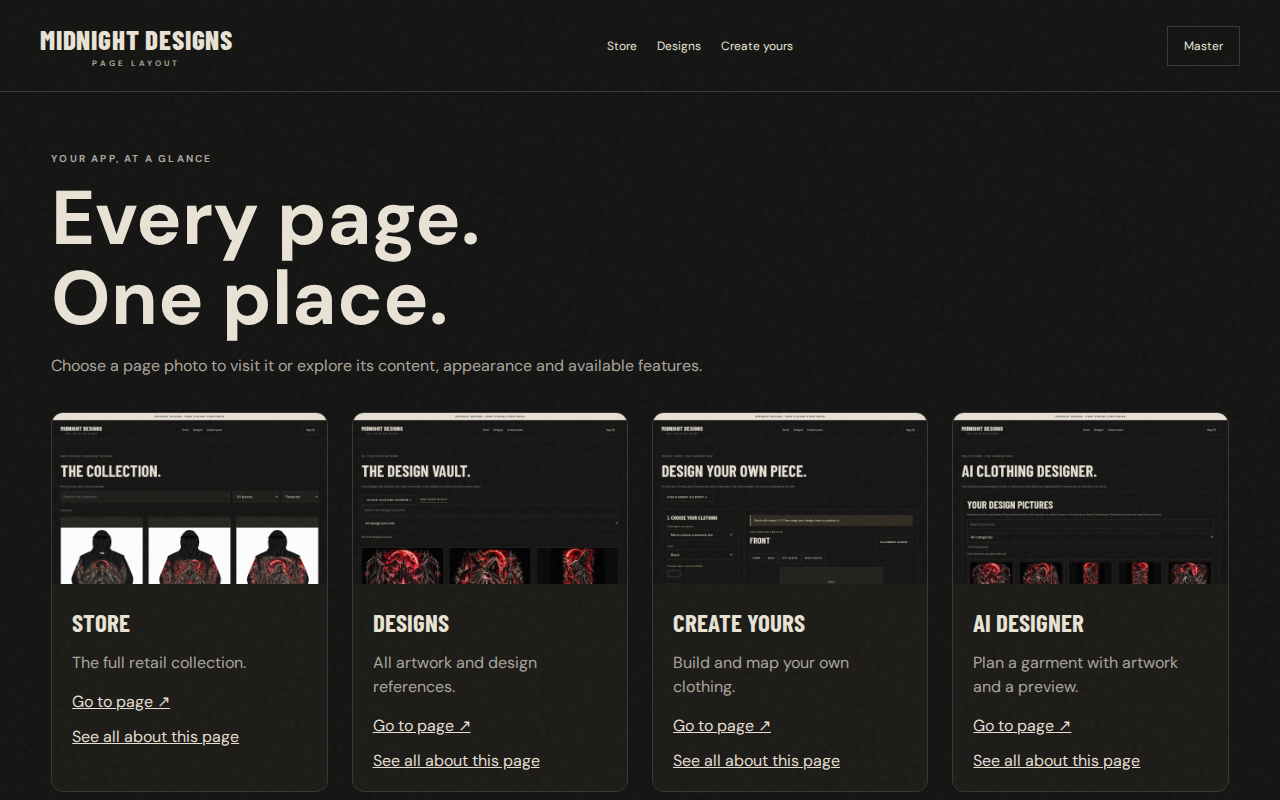
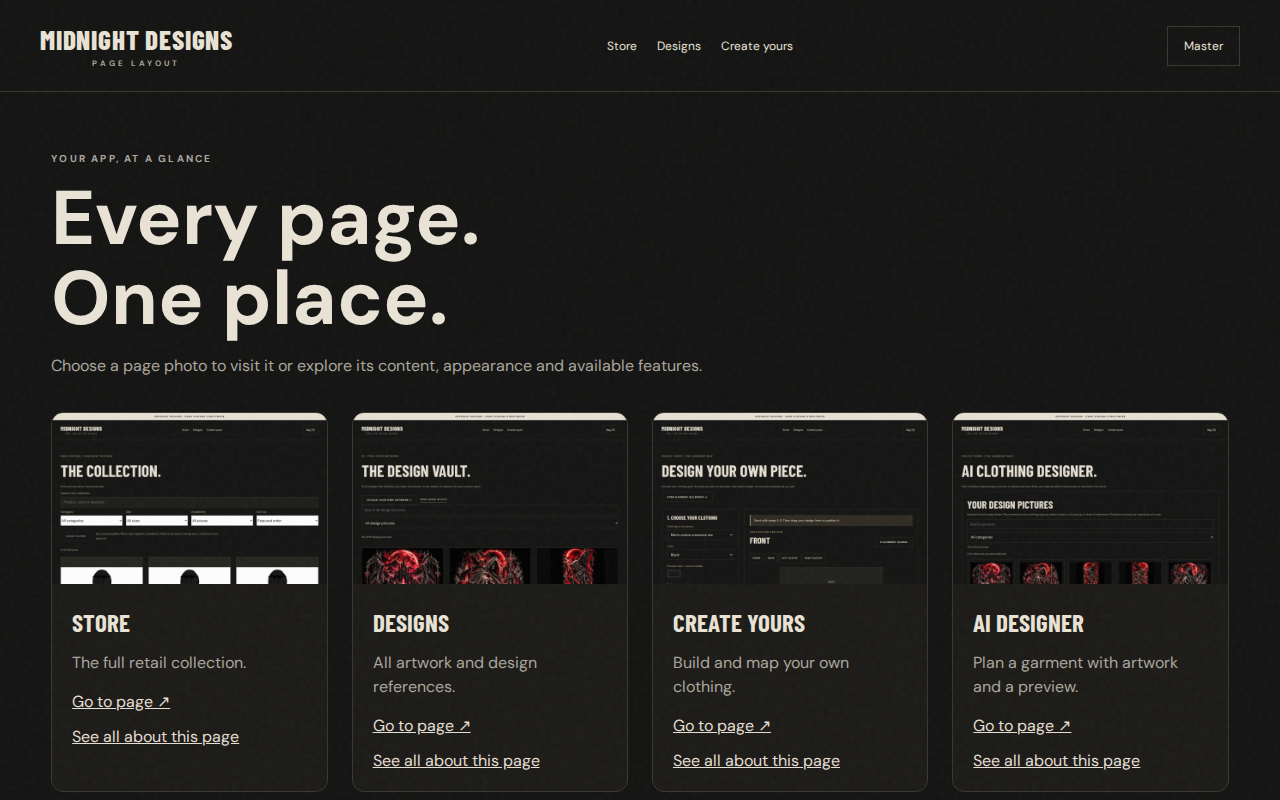
Clean up catalog search, categories, sizing and availability (#28)
* Add useful catalog categories, size and availability filters, and clearer cards

* Refresh catalog page previews

* Keep mobile products visible with a collapsible filter and sort panel

* Keep mobile catalog guidance at the readable 14px minimum

* Open product details on the size selected in catalog filters

* Refresh catalog page previews

---------

Changed region(s): [[0.0312, 0.625, 0.25, 0.75]]

diff --git a/app.js b/app.js
@@ -13,13 +13,21 @@ function cartTotals(){const totals=new Map();let unavailable=false;for(const x o
 function element(tag,cls,text){const e=document.createElement(tag);if(cls)e.className=cls;if(text!==undefined)e.textContent=text;return e}
 function image(url,alt){const img=element('img');try{const u=new URL(url,location.href);if(u.protocol!=='https:'&&!(u.origin===location.origin&&u.pathname.includes('/assets/product-photos/')))return element('span','notice','Image unavailable');img.src=u.href}catch{return element('span','notice','Image unavailable')}img.alt=alt;img.loading='lazy';img.addEventListener('error',()=>img.replaceWith(element('span','notice','Image unavailable')));return img}
 function empty(target,title,copy){target.replaceChildren();const box=element('div','empty');box.append(element('h3','',title),element('p','',copy));target.append(box)}
-function renderProducts(target,list=PRODUCTS){target.replaceChildren();target.classList.toggle('single',list.length===1);if(!list.length){empty(target,PRODUCTS.length?'No matching pieces.':'The next chapter is coming.','Check back for the latest Midnight Designs collection.');return}for(const p of list){const card=element('article','product-card'),link=element('a','product-image');link.href='product.html?id='+encodeURIComponent(p.id);const photo=image(p.image,p.name);if(target.dataset.featured)photo.loading='eager';link.append(photo);const body=element('div','product-body'),meta=element('div','product-meta');body.append(element('div','eyebrow',p.category));const name=element('a');name.href=link.href;name.append(element('h3','',p.name));const prices=p.variants.map(v=>v.price);meta.append(name,element('div','price',(Math.min(...prices)!==Math.max(...prices)?'From ':'')+money(Math.min(...prices),p.variants[0].currency)));body.append(meta);card.append(link,body);target.append(card)}}
+function productType(p){const name=p.name.toLowerCase();if(/hoodie/.test(name))return 'Hoodies';if(/sweatshirt/.test(name))return 'Sweatshirts';if(/t-shirt|tee|tank/.test(name))return 'Tees';if(/legging|pants|shorts/.test(name))return 'Bottoms';if(/backpack|fanny|bag/.test(name))return 'Bags';if(/bandana|gaiter/.test(name))return 'Accessories';return p.category==='Other pieces'?'Accessories':p.category;}
+function catalogVariants(p){let variants=p.variants;if($('sizeFilter')?.value)variants=variants.filter(v=>v.size===$('sizeFilter').value);if($('availabilityFilter')?.value==='available')variants=variants.filter(activeVariant);if($('availabilityFilter')?.value==='unavailable')variants=variants.filter(v=>!activeVariant(v));return variants;}
+function productPrice(p,filtered=false){const variants=filtered?catalogVariants(p):p.variants,available=variants.filter(activeVariant);return available.length?Math.min(...available.map(v=>v.price)):null;}
+function renderProducts(target,list=PRODUCTS){target.replaceChildren();target.classList.toggle('single',list.length===1&&!target.dataset.catalog);if(!list.length){empty(target,PRODUCTS.length?'No matching pieces.':'The next chapter is coming.',target.dataset.catalog?'Try a different size, category or search, or clear the filters.':'Check back for the latest Midnight Designs collection.');return}for(const p of list){const filtered=!!target.dataset.catalog,variants=filtered?catalogVariants(p):p.variants,available=variants.filter(activeVariant),card=element('article','product-card'),link=element('a','product-image');card.dataset.productId=p.id;link.href='product.html?id='+encodeURIComponent(p.id);if(filtered&&$('sizeFilter').value&&variants.length)link.href+='&variant='+encodeURIComponent((available[0]||variants[0]).id);const photo=image(p.image,p.name);if(target.dataset.featured)photo.loading='eager';link.append(photo);const body=element('div','product-body'),meta=element('div','product-meta');body.append(element('div','eyebrow',filtered?productType(p):p.category));const name=element('a');name.href=link.href;name.append(element('h3','',p.name));meta.append(name);if(available.length){const prices=available.map(v=>v.price);meta.append(element('div','price',(Math.min(...prices)!==Math.max(...prices)?'From ':'')+money(Math.min(...prices),available[0].currency)))}else meta.append(element('span','availability-badge unavailable',filtered&&p.variants.some(activeVariant)?'Unavailable options':'Unavailable'));body.append(meta);if(filtered){if(available.length)body.append(element('span','availability-badge',available.length<variants.length?'Some options unavailable':'Available options'));const sizes=[...new Set(available.map(v=>v.size).filter(Boolean))];body.append(element('p','catalog-sizes',sizes.length?'Available sizes: '+sizes.join(' · '):'No available options'+($('sizeFilter').value?' in '+$('sizeFilter').value:'.')));if(available.length<variants.length&&available.length)body.append(element('p','notice','Check available size and color combinations.'));}card.append(link,body);target.append(card)}}
 function homeProducts(){const ids=($('grid')?.dataset.featured||'').split(',').filter(Boolean);const selected=ids.map(id=>PRODUCTS.find(p=>p.id===id&&p.variants.some(activeVariant))).filter(Boolean);for(const p of PRODUCTS)if(selected.length<4&&!selected.includes(p)&&p.variants.some(activeVariant))selected.push(p);return selected.slice(0,4)}
-function shop(){const categories=[...new Set(PRODUCTS.map(p=>p.category))];for(const c of categories){const o=element('option','',c);o.value=c;$('category').append(o)}function apply(){const query=$('search').value.toLowerCase().trim();let list=PRODUCTS.filter(p=>(!$('category').value||p.category===$('category').value)&&p.name.toLowerCase().includes(query));if($('sort').value!=='default'){const dir=$('sort').value==='low'?1:-1;list.sort((a,b)=>dir*(Math.min(...a.variants.map(v=>v.price))-Math.min(...b.variants.map(v=>v.price))))}renderProducts($('grid'),list);$('catalogStatus').textContent=list.length+' piece'+(list.length===1?'':'s')}for(const id of ['search','category','sort'])$(id).addEventListener(id==='search'?'input':'change',apply);apply()}
-function product(){const p=PRODUCTS.find(p=>p.id===new URLSearchParams(location.search).get('id'));if(!p){$('name').textContent='This piece is unavailable.';$('description').textContent='Explore the collection for available pieces.';$('variant').replaceChildren(element('option','','Unavailable'));return}document.title=p.name+' | Midnight Designs';$('name').textContent=p.name;$('cat').textContent=p.category;$('description').textContent=p.description||'A Midnight Designs piece for your after-hours rotation.';$('visual').append(image(p.image,p.name));for(const url of [...new Set([p.image,...(p.images||[])])]){const button=element('button');button.type='button';button.setAttribute('aria-label','View another image of '+p.name);button.append(image(url,''));button.onclick=()=>$('visual').replaceChildren(image(url,p.name));$('gallery').append(button)}$('variant').replaceChildren();for(const v of p.variants){const option=element('option','',v.name+' — '+money(v.price,v.currency));option.value=v.id;$('variant').append(option)}$('variant').disabled=false;$('add').disabled=false;function update(){const v=p.variants.find(v=>String(v.id)===$('variant').value);$('price').textContent=v?money(v.price,v.currency):'Unavailable';$('add').disabled=!activeVariant(v)}$('variant').onchange=update;update();$('add').onclick=()=>{const v=p.variants.find(v=>String(v.id)===$('variant').value);if(!activeVariant(v)){cartNotice('This option is unavailable. Choose another size or color.');return}const c=cart(),key=p.id+':'+v.id,existing=c.find(x=>x.id===key);if(existing?.qty>=99){cartNotice('You already have the maximum of 99 for this option.');return}if(existing)existing.qty++;else c.push({id:key,productId:p.id,variantId:String(v.id),qty:1});if(saveCart(c)){$('productNotice').textContent='Added to your bag: '+(v.size||'One size')+' · '+(v.color||'Printed design as pictured')+'.';$('add').textContent='Added ✓';setTimeout(()=>$('add').textContent='Add to bag',1500)}}}
+function shop(){const drawer=document.querySelector('.catalog-filter-drawer');if(drawer&&matchMedia('(max-width:600px)').matches)drawer.open=false;const sizes=['2XS','XS','S','M','L','XL','2XL','3XL','4XL','5XL','6XL','S/M','M/L','One size'];const categories=[...new Set(PRODUCTS.map(productType))];for(const c of categories.sort()){const o=element('option','',c);o.value=c;$('category').append(o)}const actual=[...new Set(PRODUCTS.flatMap(p=>p.variants.map(v=>v.size)).filter(Boolean))];actual.sort((a,b)=>{const i=sizes.indexOf(a),j=sizes.indexOf(b);return (i<0?99:i)-(j<0?99:j)||a.localeCompare(b)});for(const s of actual){const o=element('option','',s);o.value=s;$('sizeFilter').append(o)}
+const fields={q:'search',type:'category',size:'sizeFilter',availability:'availabilityFilter',sort:'sort'};
+function restore(){const params=new URLSearchParams(location.search);for(const [key,id] of Object.entries(fields)){const n=$(id),value=params.get(key)||'';n.value=id==='search'?value:[...n.options].some(o=>o.value===value)?value:n.options[0].value;}}
+function apply(write=true){const tokens=$('search').value.toLowerCase().trim().split(/\s+/).filter(Boolean);let list=PRODUCTS.filter(p=>{const text=[p.name,p.description,productType(p),...p.variants.flatMap(v=>[v.name,v.size,v.color])].join(' ').toLowerCase();if(tokens.some(t=>!text.includes(t))||($('category').value&&productType(p)!==$('category').value))return false;if($('sizeFilter').value&&!p.variants.some(v=>v.size===$('sizeFilter').value))return false;return $('availabilityFilter').value==='unavailable'?!catalogVariants(p).length?(!p.variants.length&&!$('sizeFilter').value):catalogVariants(p).some(v=>!activeVariant(v)):$('availabilityFilter').value==='available'?catalogVariants(p).some(activeVariant):true});
+const sort=$('sort').value;if(sort!=='default')list.sort((a,b)=>{if(sort==='name')return a.name.localeCompare(b.name);const x=productPrice(a,true),y=productPrice(b,true);if(x===null)return y===null?0:1;if(y===null)return -1;return (sort==='low'?1:-1)*(x-y)});renderProducts($('grid'),list);$('catalogStatus').textContent=list.length+' of '+PRODUCTS.length+' pieces'+($('sizeFilter').value?' · Size '+$('sizeFilter').value:'');$('clearFilters').disabled=!Object.values(fields).some(id=>$(id).value&&$(id).value!=='default');const active=Object.values(fields).filter(id=>id!=='search'&&$(id).value&&$(id).value!=='default').length;$('filterToggle').textContent='Filters & sort'+(active?' · '+active+' active':'');if(write){const url=new URL(location.href);for(const [key,id] of Object.entries(fields)){const value=$(id).value;if(value&&value!=='default')url.searchParams.set(key,value);else url.searchParams.delete(key)}history.replaceState(null,'',url)}}
+for(const id of Object.values(fields))$(id).addEventListener(id==='search'?'input':'change',()=>apply());$('clearFilters').onclick=()=>{for(const id of Object.values(fields))$(id).value=id==='sort'?'default':'';apply()};window.addEventListener('popstate',()=>{restore();apply(false)});restore();apply(false);}
+function product(){const p=PRODUCTS.find(p=>p.id===new URLSearchParams(location.search).get('id'));if(!p||!p.variants.length){$('name').textContent='This piece is unavailable.';$('description').textContent='Explore the collection for available pieces.';$('variant').replaceChildren(element('option','','Unavailable'));return}document.title=p.name+' | Midnight Designs';$('name').textContent=p.name;$('cat').textContent=p.category;$('description').textContent=p.description||'A Midnight Designs piece for your after-hours rotation.';$('visual').append(image(p.image,p.name));for(const url of [...new Set([p.image,...(p.images||[])])]){const button=element('button');button.type='button';button.setAttribute('aria-label','View another image of '+p.name);button.append(image(url,''));button.onclick=()=>$('visual').replaceChildren(image(url,p.name));$('gallery').append(button)}$('variant').replaceChildren();for(const v of p.variants){const option=element('option','',v.name+' — '+(activeVariant(v)?money(v.price,v.currency):'Unavailable'));option.value=v.id;$('variant').append(option)}const requested=new URLSearchParams(location.search).get('variant');if(p.variants.some(v=>String(v.id)===requested))$('variant').value=requested;$('variant').disabled=false;$('add').disabled=false;function update(){const v=p.variants.find(v=>String(v.id)===$('variant').value);$('price').textContent=v?money(v.price,v.currency):'Unavailable';$('add').disabled=!activeVariant(v)}$('variant').onchange=update;update();$('add').onclick=()=>{const v=p.variants.find(v=>String(v.id)===$('variant').value);if(!activeVariant(v)){cartNotice('This option is unavailable. Choose another size or color.');return}const c=cart(),key=p.id+':'+v.id,existing=c.find(x=>x.id===key);if(existing?.qty>=99){cartNotice('You already have the maximum of 99 for this option.');return}if(existing)existing.qty++;else c.push({id:key,productId:p.id,variantId:String(v.id),qty:1});if(saveCart(c)){$('productNotice').textContent='Added to your bag: '+(v.size||'One size')+' · '+(v.color||'Printed design as pictured')+'.';$('add').textContent='Added ✓';setTimeout(()=>$('add').textContent='Add to bag',1500)}}}
 
 function renderCart(){const c=cart(),box=$('items');box.replaceChildren();if(!c.length)box.append(element('p','notice','Your bag is empty. Find your next piece in the collection.'));for(const x of c){const p=PRODUCTS.find(p=>p.id===x.productId),v=p?.variants.find(v=>String(v.id)===x.variantId),available=activeVariant(v);const row=element('div','item'),details=element('div');row.dataset.key=x.id;if(p){const gallery=CART_PHOTOS[p.id];const candidates=gallery?.originalImage===p.image?gallery.photos.filter(photo=>photo.storeVariantIds.includes(x.variantId)):[];const photo=candidates.find(photo=>photo.category==='product'&&/front/i.test(photo.view))||candidates.find(photo=>photo.category==='product')||candidates[0];row.append(image(photo?.image||p.image,p.name+' · '+(v?.size||'')+' · '+(v?.color||'Printed design as pictured')))}else row.append(element('span','','—'));const name=element('a');if(p)name.href='product.html?id='+encodeURIComponent(p.id);name.append(element('b','',p?.name||'Unavailable piece'));details.append(name,element('small','',v?.name||'This option is no longer listed.'),element('small','cart-option','Size: '+(v?.size||'Not supplied')+' · Color / base: '+(v?.color||'Printed design as pictured')));if(!available)details.append(element('small','error','Unavailable — remove this option.'));const remove=element('button','','Remove');remove.type='button';remove.setAttribute('aria-label','Remove '+(p?.name||'unavailable item')+' '+(v?.size||'')+' '+(v?.color||''));remove.onclick=()=>{if(saveCart(cart().filter(line=>line.id!==x.id))){cartNotice('Item removed.');renderCart()}};details.append(remove);const price=element('div');if(available){details.append(element('small','cart-unit-price','Unit price: '+money(v.price,v.currency)));const line=element('div','price');const updateLine=qty=>{const value=lineMoney(v,qty);line.textContent=money(value.minor/value.scale,value.currency)};updateLine(x.qty);price.append(line);const qty=element('input');qty.type='number';qty.min=1;qty.max=99;qty.step=1;qty.value=x.qty;qty.setAttribute('aria-label','Quantity for '+p.name+' '+(v.size||'')+' '+(v.color||''));function change(){const n=Number(qty.value);if(!Number.isInteger(n)||n<1||n>99)return;const current=cart(),item=current.find(item=>item.id===x.id);if(!item){renderCart();return}if(item.qty===n)return;const previous=item.qty;item.qty=n;if(saveCart(current)){cartNotice('Bag updated.');updateLine(n);cartTotals()}else qty.value=previous}qty.oninput=change;qty.onchange=()=>{change();const saved=cart().find(item=>item.id===x.id);if(saved)qty.value=saved.qty};price.append(qty)}row.append(details,price);box.append(row)}cartTotals();updateCartCount()}
 window.addEventListener('storage',event=>{if(event.key===CART_KEY||event.key===null){updateCartCount();if($('items')&&PRODUCTS.length){renderCart();cartNotice('Bag updated from another tab.')}}});
 
-async function init(){updateCartCount();try{const response=await fetch('products.json',{cache:'no-cache'});if(!response.ok)throw Error('catalog');const data=await response.json();if(!Array.isArray(data.products))throw Error('catalog');PRODUCTS=data.products.filter(p=>typeof p.id==='string'&&typeof p.name==='string'&&Array.isArray(p.variants)&&p.variants.length&&p.variants.every(v=>Number.isFinite(v.price)&&v.price>0&&typeof v.currency==='string'));if(PRODUCTS.length&&document.querySelector('.hero-art')){const p=document.body.classList.contains('home')?homeProducts()[0]||PRODUCTS[0]:PRODUCTS[0],link=element('a','hero-product');link.href='product.html?id='+encodeURIComponent(p.id);const heroImage=image(p.image,p.name);heroImage.loading='eager';heroImage.fetchPriority='high';link.append(heroImage);link.setAttribute('aria-label','View '+p.name);document.querySelector('.hero-art').append(link);const label=document.querySelector('.art-bottom');if(label)label.textContent=p.name+' / FROM '+money(Math.min(...p.variants.map(v=>v.price)),p.variants[0].currency)}if($('grid'))$('search')?shop():renderProducts($('grid'),document.body.classList.contains('home')?homeProducts():PRODUCTS.slice(0,6));if($('variant'))product();if($('items')){try{const photos=await fetch('product-photos.json',{signal:AbortSignal.timeout(4000)});if(photos.ok)CART_PHOTOS=(await photos.json()).products||{}}catch{}renderCart()}}catch{if($('grid'))empty($('grid'),'The collection could not load.','Please refresh the page or try again shortly.');if($('name'))$('name').textContent='The product could not load.';if($('items'))$('items').textContent='Your bag could not load. Please try again shortly.'}}
+async function init(){updateCartCount();try{const response=await fetch('products.json',{cache:'no-cache'});if(!response.ok)throw Error('catalog');const data=await response.json();if(!Array.isArray(data.products))throw Error('catalog');PRODUCTS=data.products.filter(p=>typeof p.id==='string'&&typeof p.name==='string'&&Array.isArray(p.variants)&&p.variants.every(v=>Number.isFinite(v.price)&&v.price>0&&typeof v.currency==='string'));if(PRODUCTS.length&&document.querySelector('.hero-art')){const p=document.body.classList.contains('home')?homeProducts()[0]||PRODUCTS[0]:PRODUCTS[0],link=element('a','hero-product');link.href='product.html?id='+encodeURIComponent(p.id);const heroImage=image(p.image,p.name);heroImage.loading='eager';heroImage.fetchPriority='high';link.append(heroImage);link.setAttribute('aria-label','View '+p.name);document.querySelector('.hero-art').append(link);const label=document.querySelector('.art-bottom');if(label)label.textContent=p.name+' / FROM '+money(Math.min(...p.variants.map(v=>v.price)),p.variants[0].currency)}if($('grid'))$('search')?shop():renderProducts($('grid'),document.body.classList.contains('home')?homeProducts():PRODUCTS.slice(0,6));if($('variant'))product();if($('items')){try{const photos=await fetch('product-photos.json',{signal:AbortSignal.timeout(4000)});if(photos.ok)CART_PHOTOS=(await photos.json()).products||{}}catch{}renderCart()}}catch{if($('grid'))empty($('grid'),'The collection could not load.','Please refresh the page or try again shortly.');if($('name'))$('name').textContent='The product could not load.';if($('items'))$('items').textContent='Your bag could not load. Please try again shortly.'}}
 init();

diff --git a/shop.html b/shop.html
@@ -1,5 +1,5 @@
 <!doctype html>
-<html lang="en"><head><meta charset="utf-8"><meta name="viewport" content="width=device-width,initial-scale=1"><title>The collection | Midnight Designs</title><meta name="description" content="Dark vintage streetwear. Gothic graphics and after-hours style from Midnight Designs."><meta name="theme-color" content="#141413"><link rel="stylesheet" href="styles.css"></head><body><a class="skip" href="#main">Skip to content</a><div class="announcement">MIDNIGHT DESIGNS · DARK VINTAGE STREETWEAR</div><header class="header"><div class="nav"><a class="brand" href="index.html">MIDNIGHT DESIGNS<small>FOR THE AFTER HOURS</small></a><nav class="links" aria-label="Main navigation"><a href="shop.html">Store</a><a href="designs.html">Designs</a><a href="custom.html">Create yours</a></nav><a class="pill" href="cart.html">Bag (<span id="cartCount">0</span>)</a></div></header><main id="main" class="section"><div class="eyebrow">Dark vintage / Midnight Designs</div><h1 class="page-title">The collection.</h1><p class="notice">Find your next after-hours essential.</p><div class="filters"><input id="search" type="search" placeholder="Search the collection" aria-label="Search products"><select id="category" aria-label="Product category"><option value="">All pieces</option></select><select id="sort" aria-label="Sort products"><option value="default">Featured</option><option value="low">Price: low to high</option><option value="high">Price: high to low</option></select></div><p id="catalogStatus" class="catalog-status" aria-live="polite"></p><div id="grid" class="grid" aria-live="polite"><p>Loading the collection…</p></div></main><footer class="footer"><span>© 2026 MIDNIGHT DESIGNS</span><span>DARK ROOTS. EVERYDAY ROTATION.</span><a href="shop.html">Explore the collection ↗</a><a href="shipping.html">Shipping information ↗</a><a href="returns.html">Returns ↗</a><a href="contact.html">Customer support ↗</a></footer><script src="app.js" defer></script><script src="catalog-photos.js?v=1" defer></script></body></html>
+<html lang="en"><head><meta charset="utf-8"><meta name="viewport" content="width=device-width,initial-scale=1"><title>The collection | Midnight Designs</title><meta name="description" content="Dark vintage streetwear. Gothic graphics and after-hours style from Midnight Designs."><meta name="theme-color" content="#141413"><link rel="stylesheet" href="styles.css"><link rel="stylesheet" href="catalog.css?v=1"></head><body><a class="skip" href="#main">Skip to content</a><div class="announcement">MIDNIGHT DESIGNS · DARK VINTAGE STREETWEAR</div><header class="header"><div class="nav"><a class="brand" href="index.html">MIDNIGHT DESIGNS<small>FOR THE AFTER HOURS</small></a><nav class="links" aria-label="Main navigation"><a href="shop.html">Store</a><a href="designs.html">Designs</a><a href="custom.html">Create yours</a></nav><a class="pill" href="cart.html">Bag (<span id="cartCount">0</span>)</a></div></header><main id="main" class="section"><div class="eyebrow">Dark vintage / Midnight Designs</div><h1 class="page-title">The collection.</h1><p class="notice">Find your next after-hours essential.</p><div class="filters catalog-filters"><div class="catalog-search"><label for="search">Search the collection</label><input id="search" type="search" placeholder="Product, color or keyword" aria-label="Search products"></div></div><details class="catalog-filter-drawer" open><summary id="filterToggle">Filters &amp; sort</summary><div class="catalog-filters catalog-extra-filters"><div><label for="category">Category</label><select id="category" aria-label="Product category"><option value="">All categories</option></select></div><div><label for="sizeFilter">Size</label><select id="sizeFilter" aria-label="Product size"><option value="">All sizes</option></select></div><div><label for="availabilityFilter">Availability</label><select id="availabilityFilter" aria-label="Product availability"><option value="">All pieces</option><option value="available">Available options</option><option value="unavailable">Unavailable options</option></select></div><div><label for="sort">Sort by</label><select id="sort" aria-label="Sort products"><option value="default">Featured order</option><option value="low">Price: low to high</option><option value="high">Price: high to low</option><option value="name">Name: A–Z</option></select></div></div></details><div class="catalog-tools"><button id="clearFilters" class="btn outline" type="button">Clear filters</button><p class="notice">Size and availability filters work together. Availability reflects the latest catalog sync; checkout is not open yet.</p></div><p id="catalogStatus" class="catalog-status" aria-live="polite"></p><div id="grid" class="grid" data-catalog="true" aria-live="polite"><p>Loading the collection…</p></div></main><footer class="footer"><span>© 2026 MIDNIGHT DESIGNS</span><span>DARK ROOTS. EVERYDAY ROTATION.</span><a href="shop.html">Explore the collection ↗</a><a href="shipping.html">Shipping information ↗</a><a href="returns.html">Returns ↗</a><a href="contact.html">Customer support ↗</a></footer><script src="app.js" defer></script><script src="catalog-photos.js?v=1" defer></script></body></html>
 
 
 

diff --git a/catalog.css b/catalog.css
@@ -1,0 +1,2 @@
+.catalog-filters{display:grid;grid-template-columns:repeat(4,minmax(0,1fr));gap:16px}.catalog-filters .catalog-search{grid-column:1/-1}.catalog-filters label{display:block;font-size:14px;color:var(--sand);margin:0 0 8px}.catalog-filters input,.catalog-filters select{width:100%;min-width:0;min-height:48px;font-size:16px}.catalog-tools{display:flex;align-items:center;gap:20px;flex-wrap:wrap;margin-bottom:24px}.catalog-tools .notice{max-width:600px}.availability-badge{display:inline-block;font-size:12px;line-height:1.5;padding:6px 9px;margin-top:12px;color:var(--sand);border:1px solid var(--line)}.availability-badge.unavailable{color:#edaa9f;border-color:#9e3933}.catalog-sizes{font-size:13px;line-height:1.7;color:var(--muted);margin:10px 0}.product-card[data-product-id] .product-meta{flex-wrap:wrap}@media(max-width:800px){.catalog-filters{grid-template-columns:repeat(2,minmax(0,1fr))}.catalog-sizes,.availability-badge{font-size:14px}.catalog-tools{gap:12px}.catalog-tools .btn{width:100%}}@media(max-width:380px){.catalog-filters{grid-template-columns:1fr}.catalog-filters .catalog-search{grid-column:auto}}
+.catalog-filter-drawer{margin-bottom:16px}.catalog-filter-drawer summary{display:none}.catalog-filter-drawer .catalog-filters{margin-top:12px}.catalog-filters:has(.catalog-search){grid-template-columns:1fr;margin-bottom:12px}@media(max-width:600px){.catalog-filter-drawer summary{display:flex;align-items:center;min-height:48px;padding:12px 16px;border:1px solid var(--line);cursor:pointer;color:var(--sand);font-size:16px}.catalog-filter-drawer summary:after{content:'+';margin-left:auto}.catalog-filter-drawer[open] summary:after{content:'−'}.catalog-tools .notice{font-size:14px;margin:0}.catalog-tools #clearFilters:disabled{display:none}.catalog-extra-filters{grid-template-columns:repeat(2,minmax(0,1fr))}}
